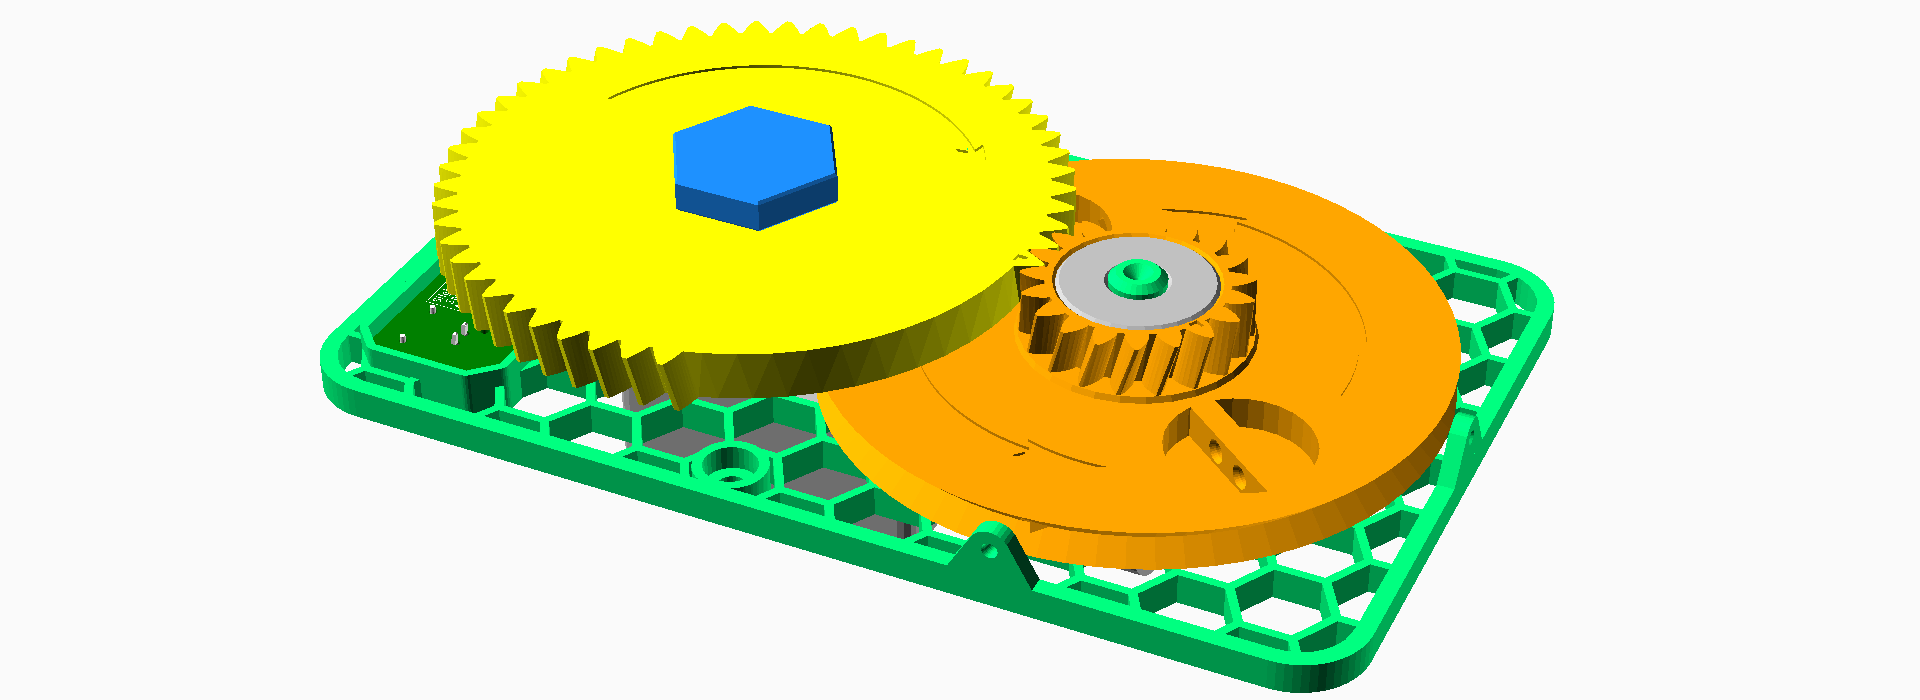
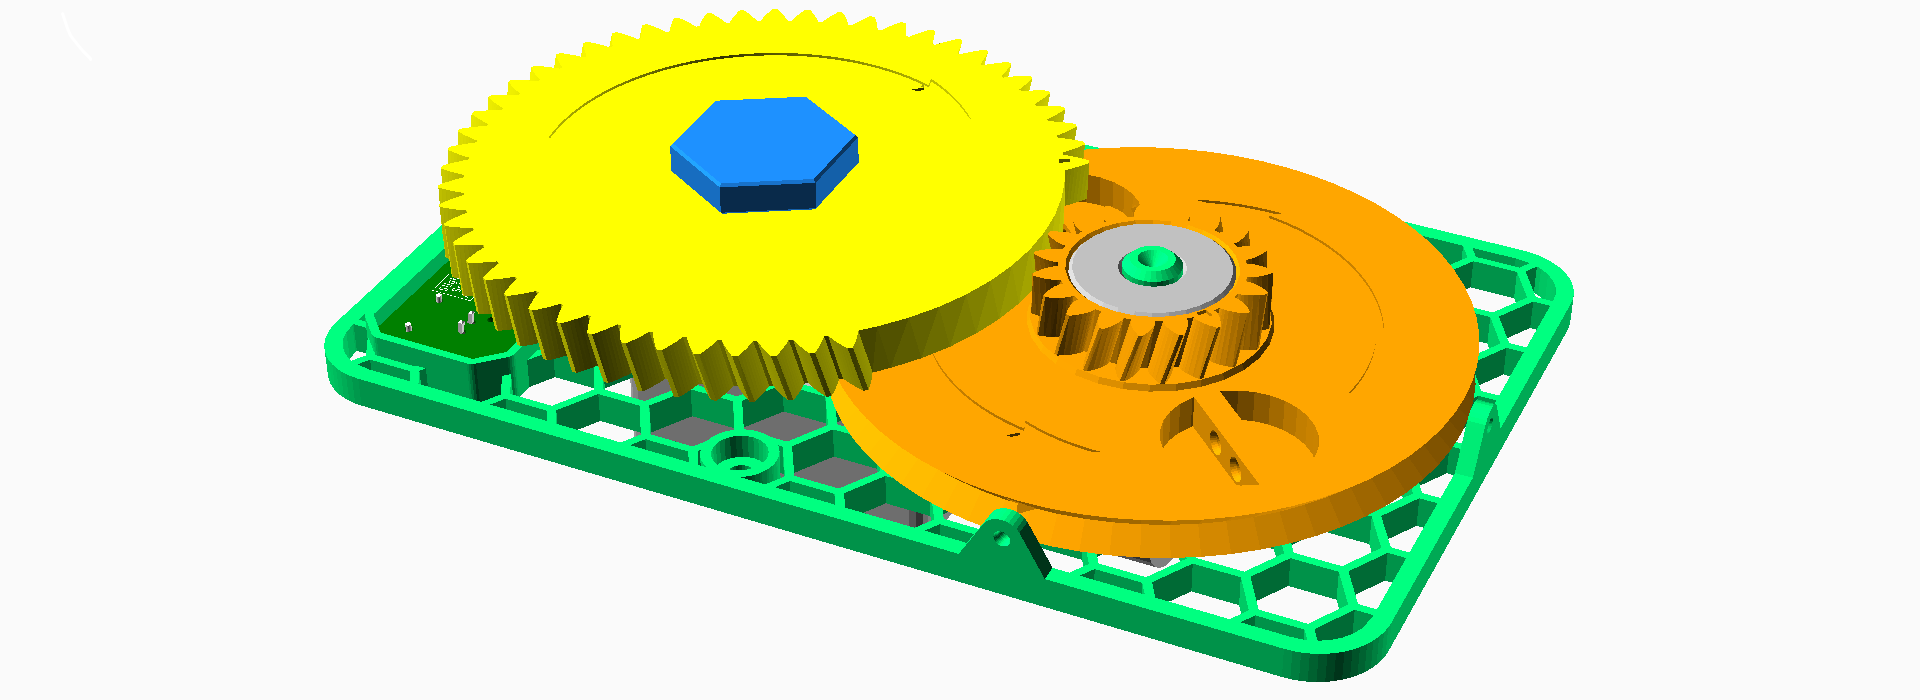
Lightly edited assembly.md. Removed old illustrations.

Changed region(s): [[0.1562, 0.0, 0.8438, 0.99], [0.5312, 0.63, 0.5625, 0.66], [0.5, 0.6, 0.5312, 0.63]]

diff --git a/notes/assembly.md b/notes/assembly.md
@@ -44,9 +44,9 @@ Make sure you know which model you are building.  Much of the assembly is the sa
 | drill with 1/8" (3mm) bit      |recommended|recommended|recommended|
 | hot glue gun (w/ black glue)   |recommended|recommended|recommended|
 
-Use only manual screwdrivers for this project.
-
 Tools tagged with `#3D` can be printed with a 3D printer.  (Subject to change in California pending AB 2047.)
+
+Use only manual screwdrivers for this project.
 
 \* **Norcal Haunters:** Crimping pliers are not required for Make & Take kits.
 
@@ -141,17 +141,14 @@ Print with a 0.4&nbsp;mm nozzle and no supports.  PLA works, but prefer PETG for
 - [ ] If it turns counterclockwise, reverse the polarity.
 - [ ] If it turns clockwise, mark the terminal connected to the positive (red) wire.
 - [ ] Disconnect the motor from the power.
+- [ ] Slip ~25&nbsp;mm (1&nbsp;inch) length of heat-shrink tubing over the pigtail wires.  Do not shrink it yet.
+- [ ] Slip ~10&nbsp;mm (3/8&nbsp;inch) of heat-shrink tubing onto each of the pigtail wires.
+- [ ] Strip about ~5&nbsp;mm (3/16&nbsp;inch) from the red wire and solder it to the marked terminal.
+- [ ] Strip ~5&nbsp;mm (3/16&nbsp;inch) from the black wire and solder it to the other terminal.
+- [ ] Shrink the individual tubes over the exposed connections.
+- [ ] Shrink the larger tubing so that the center of it is ~75&nbsp;mm (3&nbsp;inches) from the connector.
 
-> Note:  Some motors are pre-marked with a red dot, but always double check using the steps above.
-
-- [ ] Slip an approximately 25 mm (1 inch) length of heat-shrink tubing over the pigtail wires.  Do not shrink it yet.
-- [ ] Slip a short length of heat-shrink tubing onto each of the pigtail wires.
-- [ ] Strip about 5 mm (3/8 inch) from the red wire and solder it to the marked terminal.
-- [ ] Strip about 5 mm (3/8 inch) from the black wire and solder it to the other terminal.
-- [ ] Slide the individual tubes over the exposed connections and shrink them down.
-- [ ] Slide the larger tubing so that the center of it is about 75 mm (3 inches) from the connector and shrink it down.
-
-![Motor pigtail](motor_pigtail.png)
+![Motor pigtail](motor_pigtails.png)
 
 ### Attach the Shaft Adapter
 
@@ -219,15 +216,15 @@ Note:  The lever of the switch is smaller than shown in the illustration above.
 
 **Norcal Haunters**:  The Make & Take kits have pre-made sensor cables.  You're welcome.
 
-- [x] Remove about 25 mm (1 inch) of the jacket from one end of the cable, being careful not to nick the insulation on the wires inside.
-- [x] Strip about 2 mm from the tips of each of the exposed wires.
+- [x] Remove ~25&nbsp;mm (1&nbsp;inch) of the jacket from one end of the cable.
+- [x] Strip ~2&nbsp;mm from the tips of each of the exposed wires.
 - [x] Crimp the JST XH pins (female) onto the wires.
-- [x] Insert the pins into the JST XH housing in **RED/YELLOW/BLACK** order, starting with RED closest to the notch in the housing.
-- [x] Slide an approximately 25 mm (1 inch) length of heat-shrink tubing over the cable and shrink it down approximately 75 mm (3 inch) back from the JST connector.
-- [x] Remove about 25 mm (1 inch) of the jacket from the other end of the cable.
-- [x] Strip about 2 mm from the tips of each of the exposed wires.
+- [x] Insert the pins into the JST XH housing in **RED/YELLOW/BLACK** order, with RED next to the notch in the housing.
+- [x] Slide ~25&nbsp;mm (1&nbsp;inch) of heat-shrink tubing over the cable and shrink it ~75&nbsp;mm (3&nbsp;inches) from the connector.
+- [x] Remove ~25&nbsp;mm (1&nbsp;inch) of the jacket from the other end of the cable.
+- [x] Strip ~2&nbsp;mm from the tips of each of the exposed wires.
 - [x] Crimp the Dupont-style pins (female) onto the wires.  Do not put them into the connector housing yet.
-- [x] Slide another 25 mm (1 inch) length of heat shrink tubing over the cable and shrink it down approximately 50 mm (2 inches) from the tips of the pins.
+- [x] Slide ~25&nbsp;mm (1&nbsp;inch) of heat-shrink tubing over the cable and shrink it ~50&nbsp;mm (2&nbsp;inches) from the tips of the pins.
 
 ### Connect the Motion Sensor (`#SSSDUP` only)
 
@@ -299,7 +296,7 @@ The base plate has two string guides at the edges near the spool.  Decide whethe
 
 - [ ] Feed one end of the monofilament through the guide toward the spool.
 - [ ] Thread the monofilament into one of the holes along the edge of the spool.
-- [ ] Loop the monofilament the two holes in the bar that divides the recess.
+- [ ] Loop the monofilament through the two holes in the bar that divides the recess.
 - [ ] Tie the line to itself.
 - [ ] Trm the excess and ensure the knot remains entirely within the recess.
 
@@ -314,7 +311,7 @@ To make the toy spider hang realistically ...
 - [ ] Carefully drill a hole in the back of the spider's abdomen (near the spinnerets) and toward its center of mass.  The hole needn't be deeper than the trimmed zip tie is long.
 - [ ] Dip the zip tie in a blob of hot glue (use the black "cosplay" glue if you can).
 - [ ] Insert the zip tie into the hole so that only the loop protrudes.  Ideally the glue should fill any gap between the zip tie and the sides of the hole.
-- [ ] Allow the hot glue to cool, then check that zip tie is secure.
+- [ ] Allow the hot glue to cool, then check that the zip tie is secure.
 
 ![Prepare the spider](spider_prep.jpg)
 

diff --git a/notes/user_guide.md b/notes/user_guide.md
@@ -2,7 +2,7 @@
 
 Adrian McCarthy 2026 for the [Northern California Haunters Group](https://www.norcalhaunters.com/)
 
-Source files and documentation available at https://github.com/aidtopia/spider_dropper.
+Source files and documentation available at https://github.com/aidtopia/spider_dropper
 
 ## Setup
 